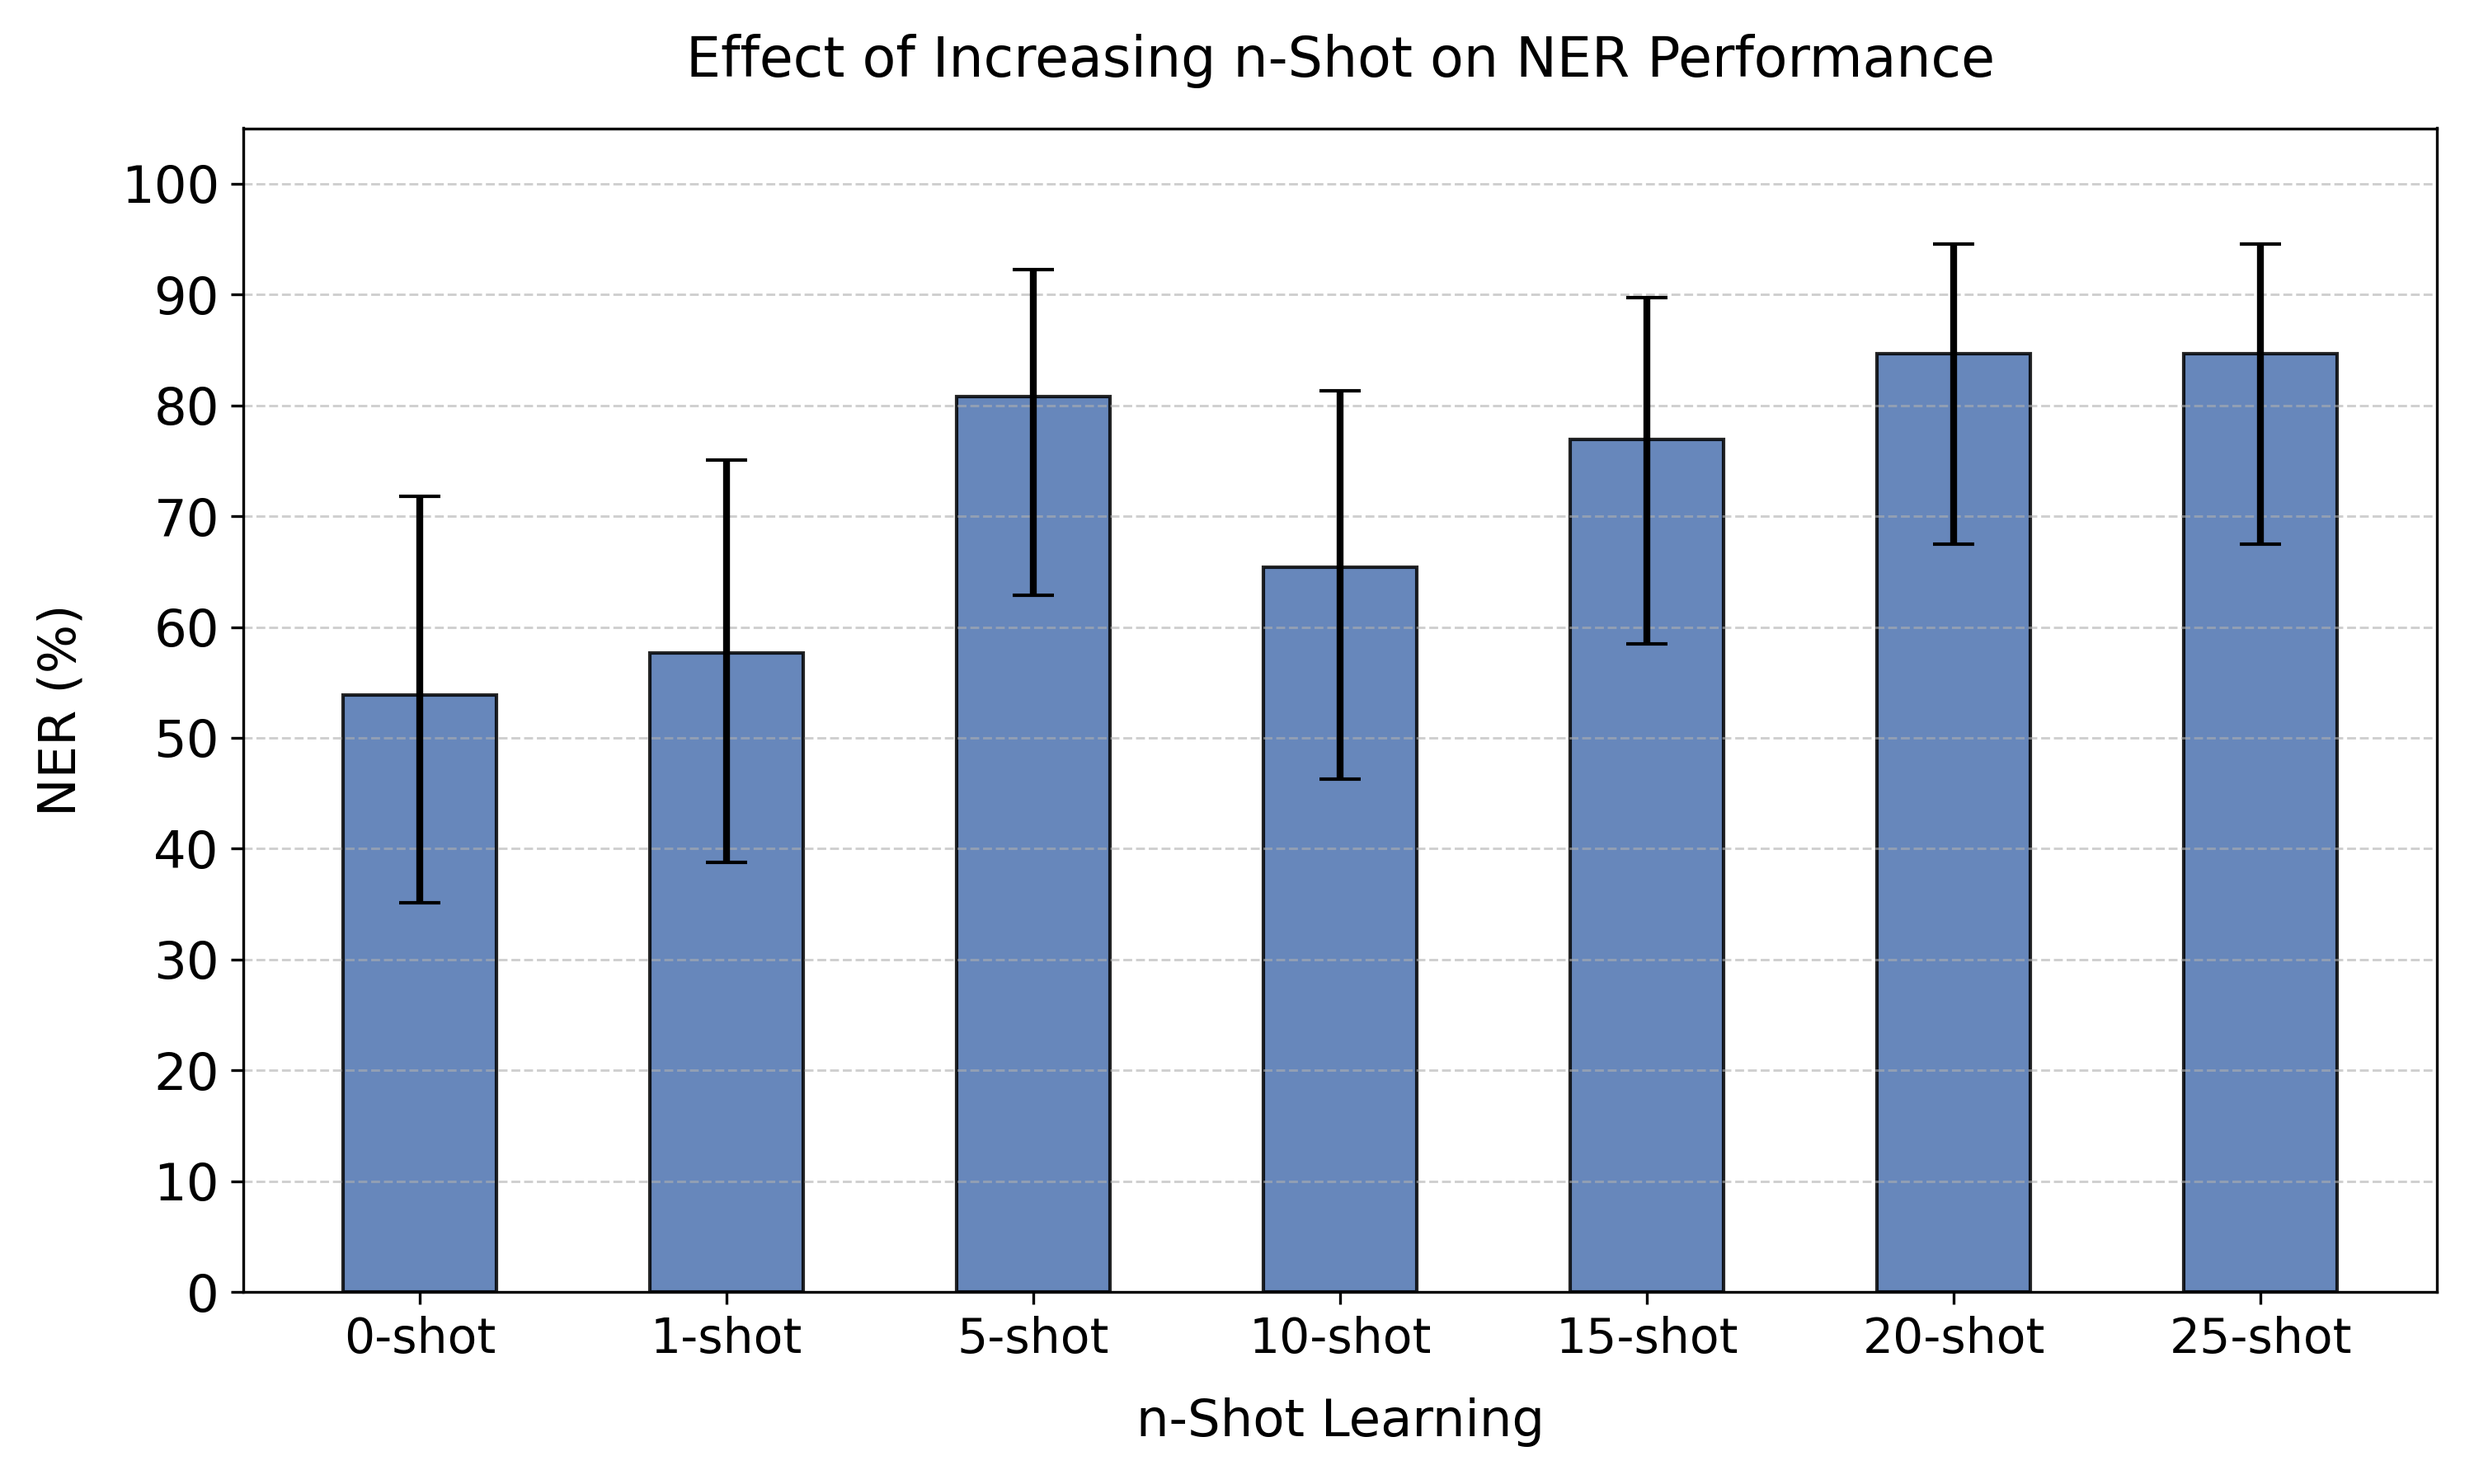
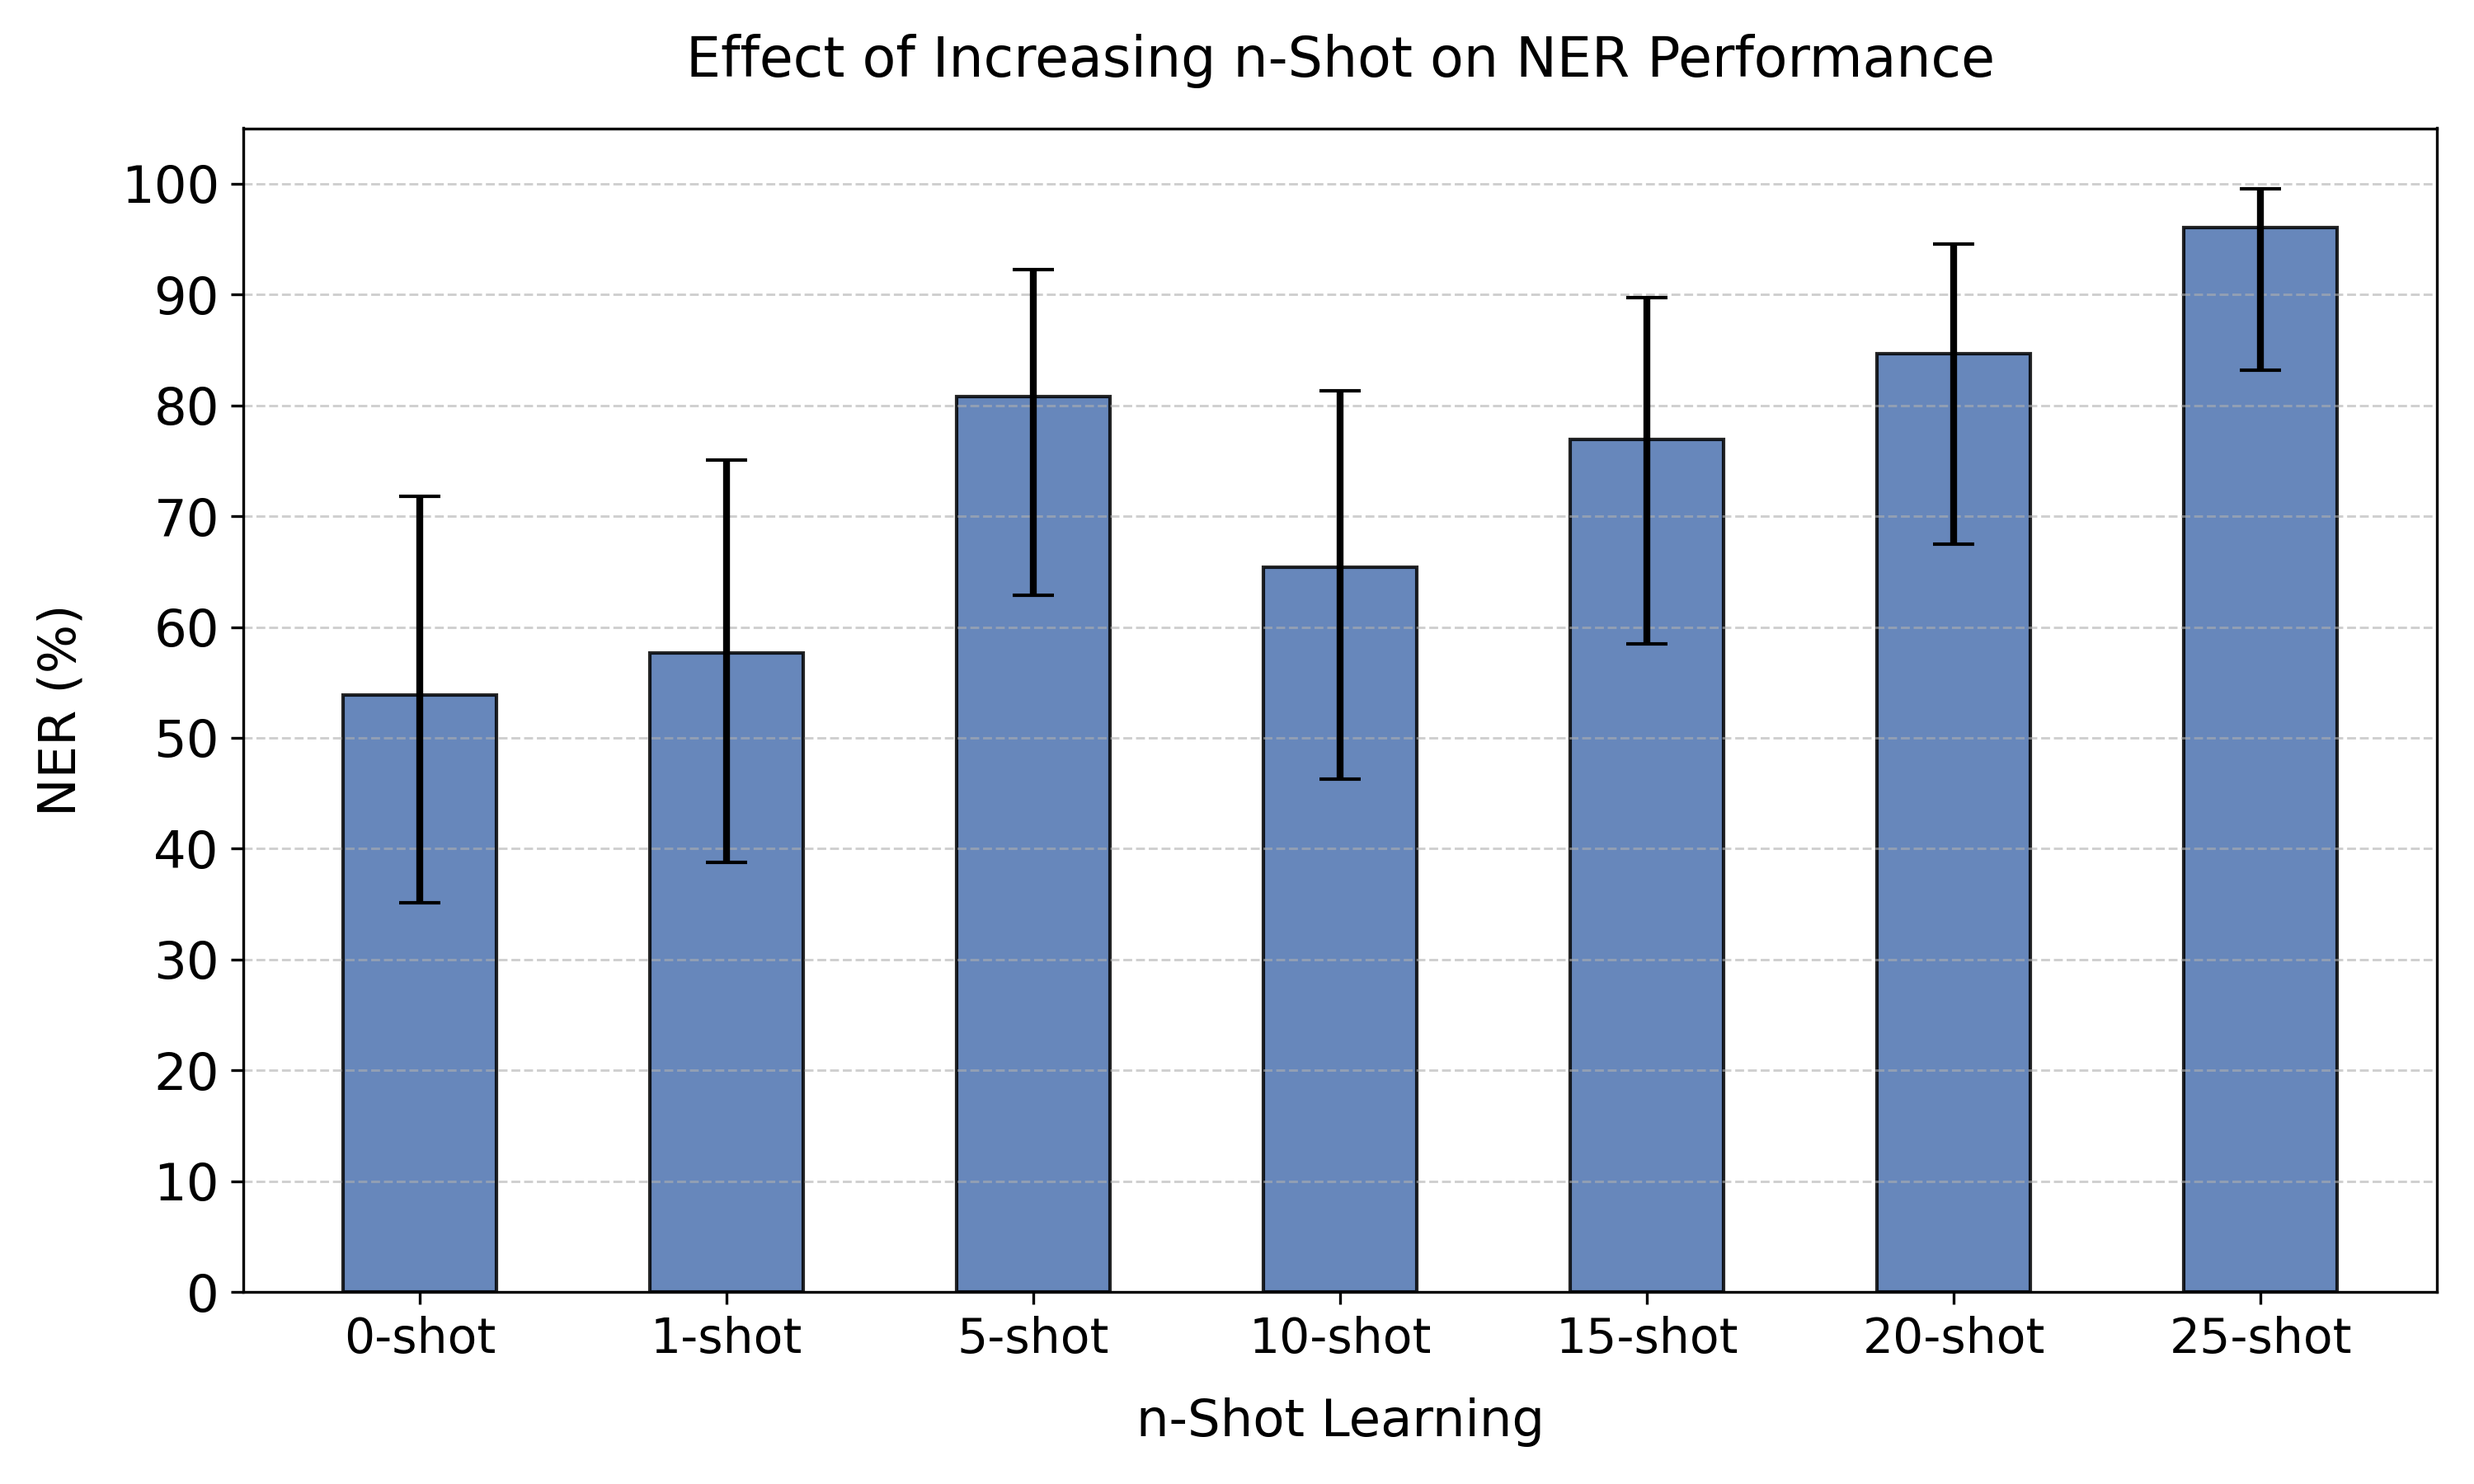
Fix NER val

Changed region(s): [[0.868, 0.1244, 0.961, 0.3733]]

diff --git a/vis_nshot_ner.py b/vis_nshot_ner.py
@@ -16,7 +16,7 @@ n_shot_levels = ["0-shot", "1-shot", "5-shot", "10-shot", "15-shot", "20-shot", 
 
 # Hypothetical NER performance values for each n-shot setting (as proportions)
 n_trials = 26  
-ner_results = np.array([53.85, 57.69, 80.77, 65.38, 76.92, 84.62, 84.62]) / 100  # Convert % to proportion
+ner_results = np.array([53.85, 57.69, 80.77, 65.38, 76.92, 84.62, 96]) / 100  # Convert % to proportion
 
 # Compute confidence intervals
 ci = [proportion_ci(n_trials, p) for p in ner_results]
